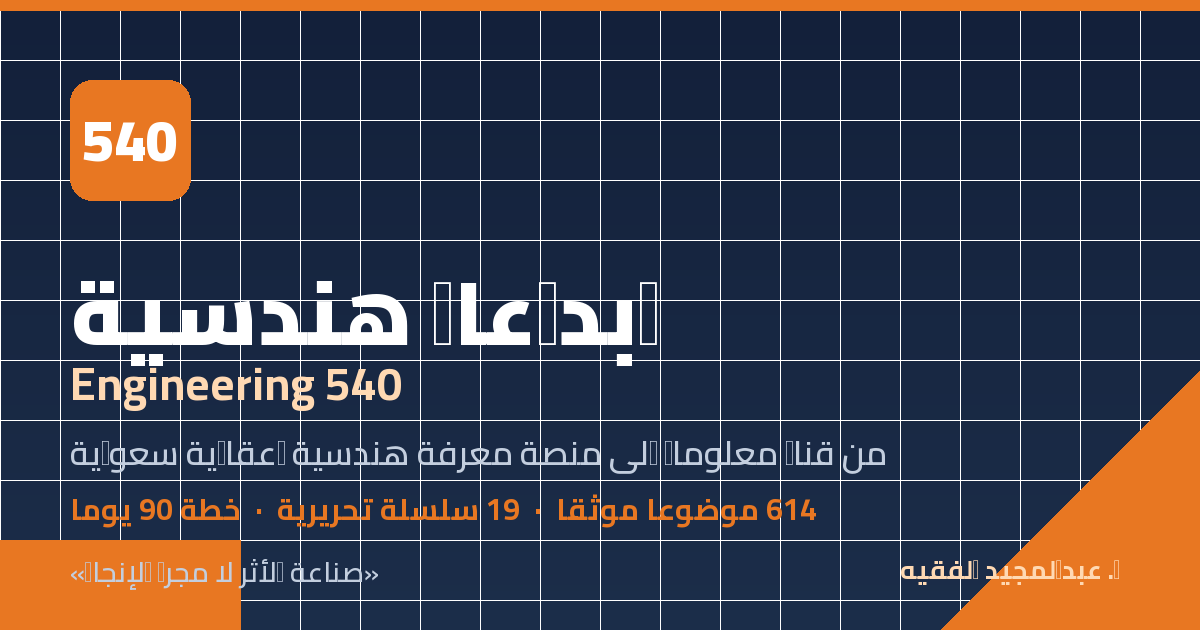
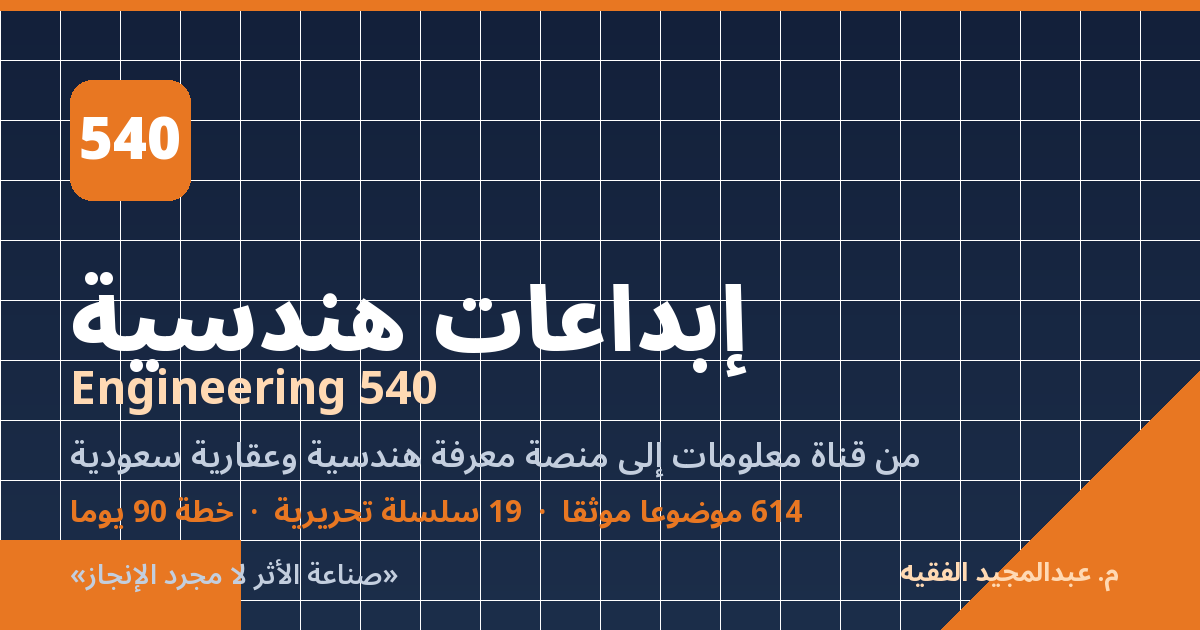
إصلاح خط الصور العربية (كان يفقد 5 أشكال حروف) + نماذج مقارنة بصرية: نص منسّق مقابل إنفوجرافيك حقيقي

diff --git a/visual-samples.html b/visual-samples.html
@@ -1,0 +1,99 @@
+<!DOCTYPE html>
+<html dir="rtl" lang="ar">
+<head>
+<meta charset="UTF-8">
+<meta name="viewport" content="width=device-width, initial-scale=1">
+<title>مقارنة بصرية — نص منسّق مقابل إنفوجرافيك حقيقي</title>
+<link href="https://fonts.googleapis.com/css2?family=Cairo:wght@400;600;700;800;900&display=swap" rel="stylesheet">
+<style>
+:root{--navy:#1C2E4A;--navy2:#13203A;--orange:#E87722;--bg:#f5f7fa;--card:#fff;--line:#e3e8ef;--txt:#243044;--muted:#64748b}
+*{box-sizing:border-box}
+body{margin:0;font-family:'Cairo',system-ui,sans-serif;background:var(--bg);color:var(--txt);line-height:1.9}
+header{background:linear-gradient(90deg,var(--navy2),var(--navy));color:#fff;padding:16px 22px;display:flex;align-items:center;gap:14px;flex-wrap:wrap}
+header b{font-size:1.1em}
+header a{color:#ffd9b3;font-weight:800;text-decoration:none;margin-inline-start:auto}
+.wrap{max-width:1100px;margin:0 auto;padding:24px 18px 70px}
+.intro{background:#fff;border:1px solid var(--line);border-radius:14px;padding:18px 22px;margin-bottom:26px}
+.intro h2{margin:0 0 10px;color:var(--navy);font-size:1.15em}
+.intro p{margin:6px 0;color:var(--muted);font-size:.94em}
+.case{background:#fff;border:1px solid var(--line);border-radius:16px;padding:20px 22px;margin-bottom:26px;box-shadow:0 1px 4px rgba(16,24,40,.06)}
+.case h3{margin:0 0 4px;color:var(--navy);font-size:1.1em}
+.tag{display:inline-block;font-size:.72em;font-weight:800;border-radius:99px;padding:3px 12px;margin-inline-start:8px;vertical-align:middle}
+.tag.no{background:#fee2e2;color:#b91c1c}
+.tag.yes{background:#dcfce7;color:#15803d}
+.case img{width:100%;max-width:660px;display:block;margin:16px auto;border:1px solid var(--line);border-radius:12px}
+.case .what{background:#f8fafc;border-inline-start:4px solid var(--orange);border-radius:8px;padding:12px 16px;font-size:.92em;margin-top:10px}
+.case .what b{color:var(--navy)}
+table{width:100%;border-collapse:collapse;margin-top:12px;font-size:.9em}
+th,td{border:1px solid var(--line);padding:9px 12px;text-align:right}
+th{background:#eef2f7;color:var(--navy);font-weight:800}
+td.y{color:#15803d;font-weight:800}
+td.n{color:#b91c1c;font-weight:800}
+.note{background:#fff7ed;border:1px solid #fed7aa;border-radius:12px;padding:14px 18px;font-size:.9em;color:#7c2d12}
+</style>
+</head>
+<body>
+<header><b>🔬 مقارنة بصرية — لتفهم الفرق بنفسك</b><a href="index.html">← الموقع</a></header>
+<div class="wrap">
+
+  <div class="intro">
+    <h2>الفرق في جملة واحدة</h2>
+    <p><b>النص المنسّق</b> = نفس كلامك، لكن بخطوط وألوان وشكل جميل. لا يُضاف أي معلومة جديدة.</p>
+    <p><b>الإنفوجرافيك الحقيقي</b> = <b>رسم بياني</b> يُبنى من أرقام: أعمدة بأطوال حقيقية، أو خط زمني بمواقع حقيقية. القارئ يفهم العلاقة من الشكل نفسه قبل أن يقرأ.</p>
+    <p style="color:#b45309;font-weight:700">⚠ كلاهما لا يرسم صوراً فوتوغرافية أو مجسّمات. لا يوجد نموذج توليد صور في هذا الإعداد.</p>
+  </div>
+
+  <div class="case">
+    <h3>١) نص منسّق — ما ينتجه المولّد الحالي<span class="tag no">لا يحتوي رسماً بيانياً</span></h3>
+    <img src="samples/01_carousel_text.png" alt="شريحة كاروسيل نصية">
+    <div class="what">
+      <b>ما تراه:</b> شريحة 1080×1350 بهوية القناة — رقم الشريحة، عنوان، متن، شريط الشعار.<br>
+      <b>المصدر:</b> النص المكتوب لموضوع P1-002 حرفياً.<br>
+      <b>القيمة:</b> سرعة وسهولة نشر — دقيقة واحدة بدل ساعة تصميم.<br>
+      <b>الحد:</b> لو كان في النص «6 نقاط»، لا يظهر فرق الأحجام بينها بصرياً — القارئ يقرأ كل شيء بنفس النبرة.
+    </div>
+  </div>
+
+  <div class="case">
+    <h3>٢) إنفوجرافيك حقيقي — رسم أعمدة<span class="tag yes">يقرأ الأرقام ويرسمها</span></h3>
+    <img src="samples/02_infographic_chart.png" alt="رسم بياني — توزيع القاعدة على المحاور">
+    <div class="what">
+      <b>ما تراه:</b> رسم بياني حقيقي. طول كل عمود محسوب من الرقم نفسه — 115 أطول من 93.<br>
+      <b>البيانات:</b> قاعدة موضوعات القناة الفعلية (614 موضوعاً موزعة على 6 محاور).<br>
+      <b>الميزة:</b> القارئ يرى بأي محور بدأت القناة تتشبّع — لا يحتاج قراءة 6 أرقام ومقارنتها ذهنياً.<br>
+      <b>هذا هو «الإنفوجرافيك» بالمعنى الحقيقي</b> — وليس نصاً منسّقاً.
+    </div>
+  </div>
+
+  <div class="case">
+    <h3>٣) إنفوجرافيك حقيقي — خط زمني موثّق<span class="tag yes">يرتّب أحداثاً حقيقية</span></h3>
+    <img src="samples/03_infographic_timeline.png" alt="خط زمني — محطات مخططات ولي العهد">
+    <div class="what">
+      <b>ما تراه:</b> خط زمني بمواقع حقيقية على المحور — وكل نقطة تحمل تاريخها ومصدرها.<br>
+      <b>الحدث:</b> ثلاث محطات موثّقة رسمياً في «مخططات ولي العهد» بمكة (1,065 أرضاً · منافسة 9-ط · مهلة الكراسة).<br>
+      <b>الميزة:</b> تُظهر التسلسل الزمني فوراً — وهذا جوهر التحليل، لا مجرد سرد.<br>
+      <b>وفيها شرطنا الصارم:</b> المصدر مكتوب أسفل الصورة. بلا مصدر — لا يُنشر.
+    </div>
+  </div>
+
+  <div class="case">
+    <h3>مقارنة مباشرة</h3>
+    <table>
+      <tr><th>السؤال</th><th>نص منسّق</th><th>إنفوجرافيك حقيقي</th></tr>
+      <tr><td>يحوّل مقالك إلى شكل قابل للنشر؟</td><td class="y">✔</td><td class="y">✔</td></tr>
+      <tr><td>يرسم أعمدة/خطوطاً من أرقام؟</td><td class="n">✘</td><td class="y">✔</td></tr>
+      <tr><td>يُظهر الفرق بين 115 و 93 بصرياً؟</td><td class="n">✘</td><td class="y">✔</td></tr>
+      <tr><td>يحتاج بيانات مرتّبة أولاً؟</td><td class="n">✘</td><td class="y">✔ (شرط)</td></tr>
+      <tr><td>يُرسم تلقائياً بضغطة زر؟</td><td class="y">✔</td><td class="y">✔ بعد تجهيز الجدول</td></tr>
+      <tr><td>يرسم صورة أو مجسّماً أو مشهداً؟</td><td class="n">✘</td><td class="n">✘</td></tr>
+      <tr><td>يولّد صورة بالذكاء الاصطناعي؟</td><td class="n">✘</td><td class="n">✘</td></tr>
+    </table>
+  </div>
+
+  <div class="note">
+    <b>ملاحظة تقنية مهمة:</b> الصور الثلاث رُسمت بخط عربي كامل الأشكال (Noto Sans Arabic) لأن خط Cairo المُثبّت محلياً كان <b>يفقد 5 أشكال حروف</b> — أي أن صورة المعاينة الاجتماعية كانت ستظهر بمربعات فارغة. أُعيد توليدها كلها بالخط الصحيح.
+  </div>
+
+</div>
+</body>
+</html>

diff --git a/index.html b/index.html
@@ -608,6 +608,7 @@ const DOCS=[['docs/README.md','📚','الفهرس والملخص التنفيذ
  ['docs/14_مكة_المكرمة_التطبيقية.md','🕋','14 · مكة المكرمة','قواعد المدينة والخريطة'],
  ['docs/topics/Engineering540_Topics_Master.csv','⬇','القاعدة الكاملة CSV','تحميل 614 موضوعاً'],
  ['carousel.html','🎨','مولّد الكاروسيل','تحويل أي موضوع إلى شرائح PNG'],
+ ['visual-samples.html','🔬','مقارنة بصرية','نص منسّق مقابل إنفوجرافيك حقيقي'],
  ['docs/15_القوالب_البصرية.md','🎨','15 · القوالب البصرية','المقاسات والألوان وأنواع الشرائح'],
  ['docs/templates/verification_log.csv','🛡','سجل التحقق','117 منتجاً جاهزاً للتوثيق'],
  ['docs/templates/kpi_targets.csv','🎯','أهداف KPI','أهداف 13 أسبوعاً'],
